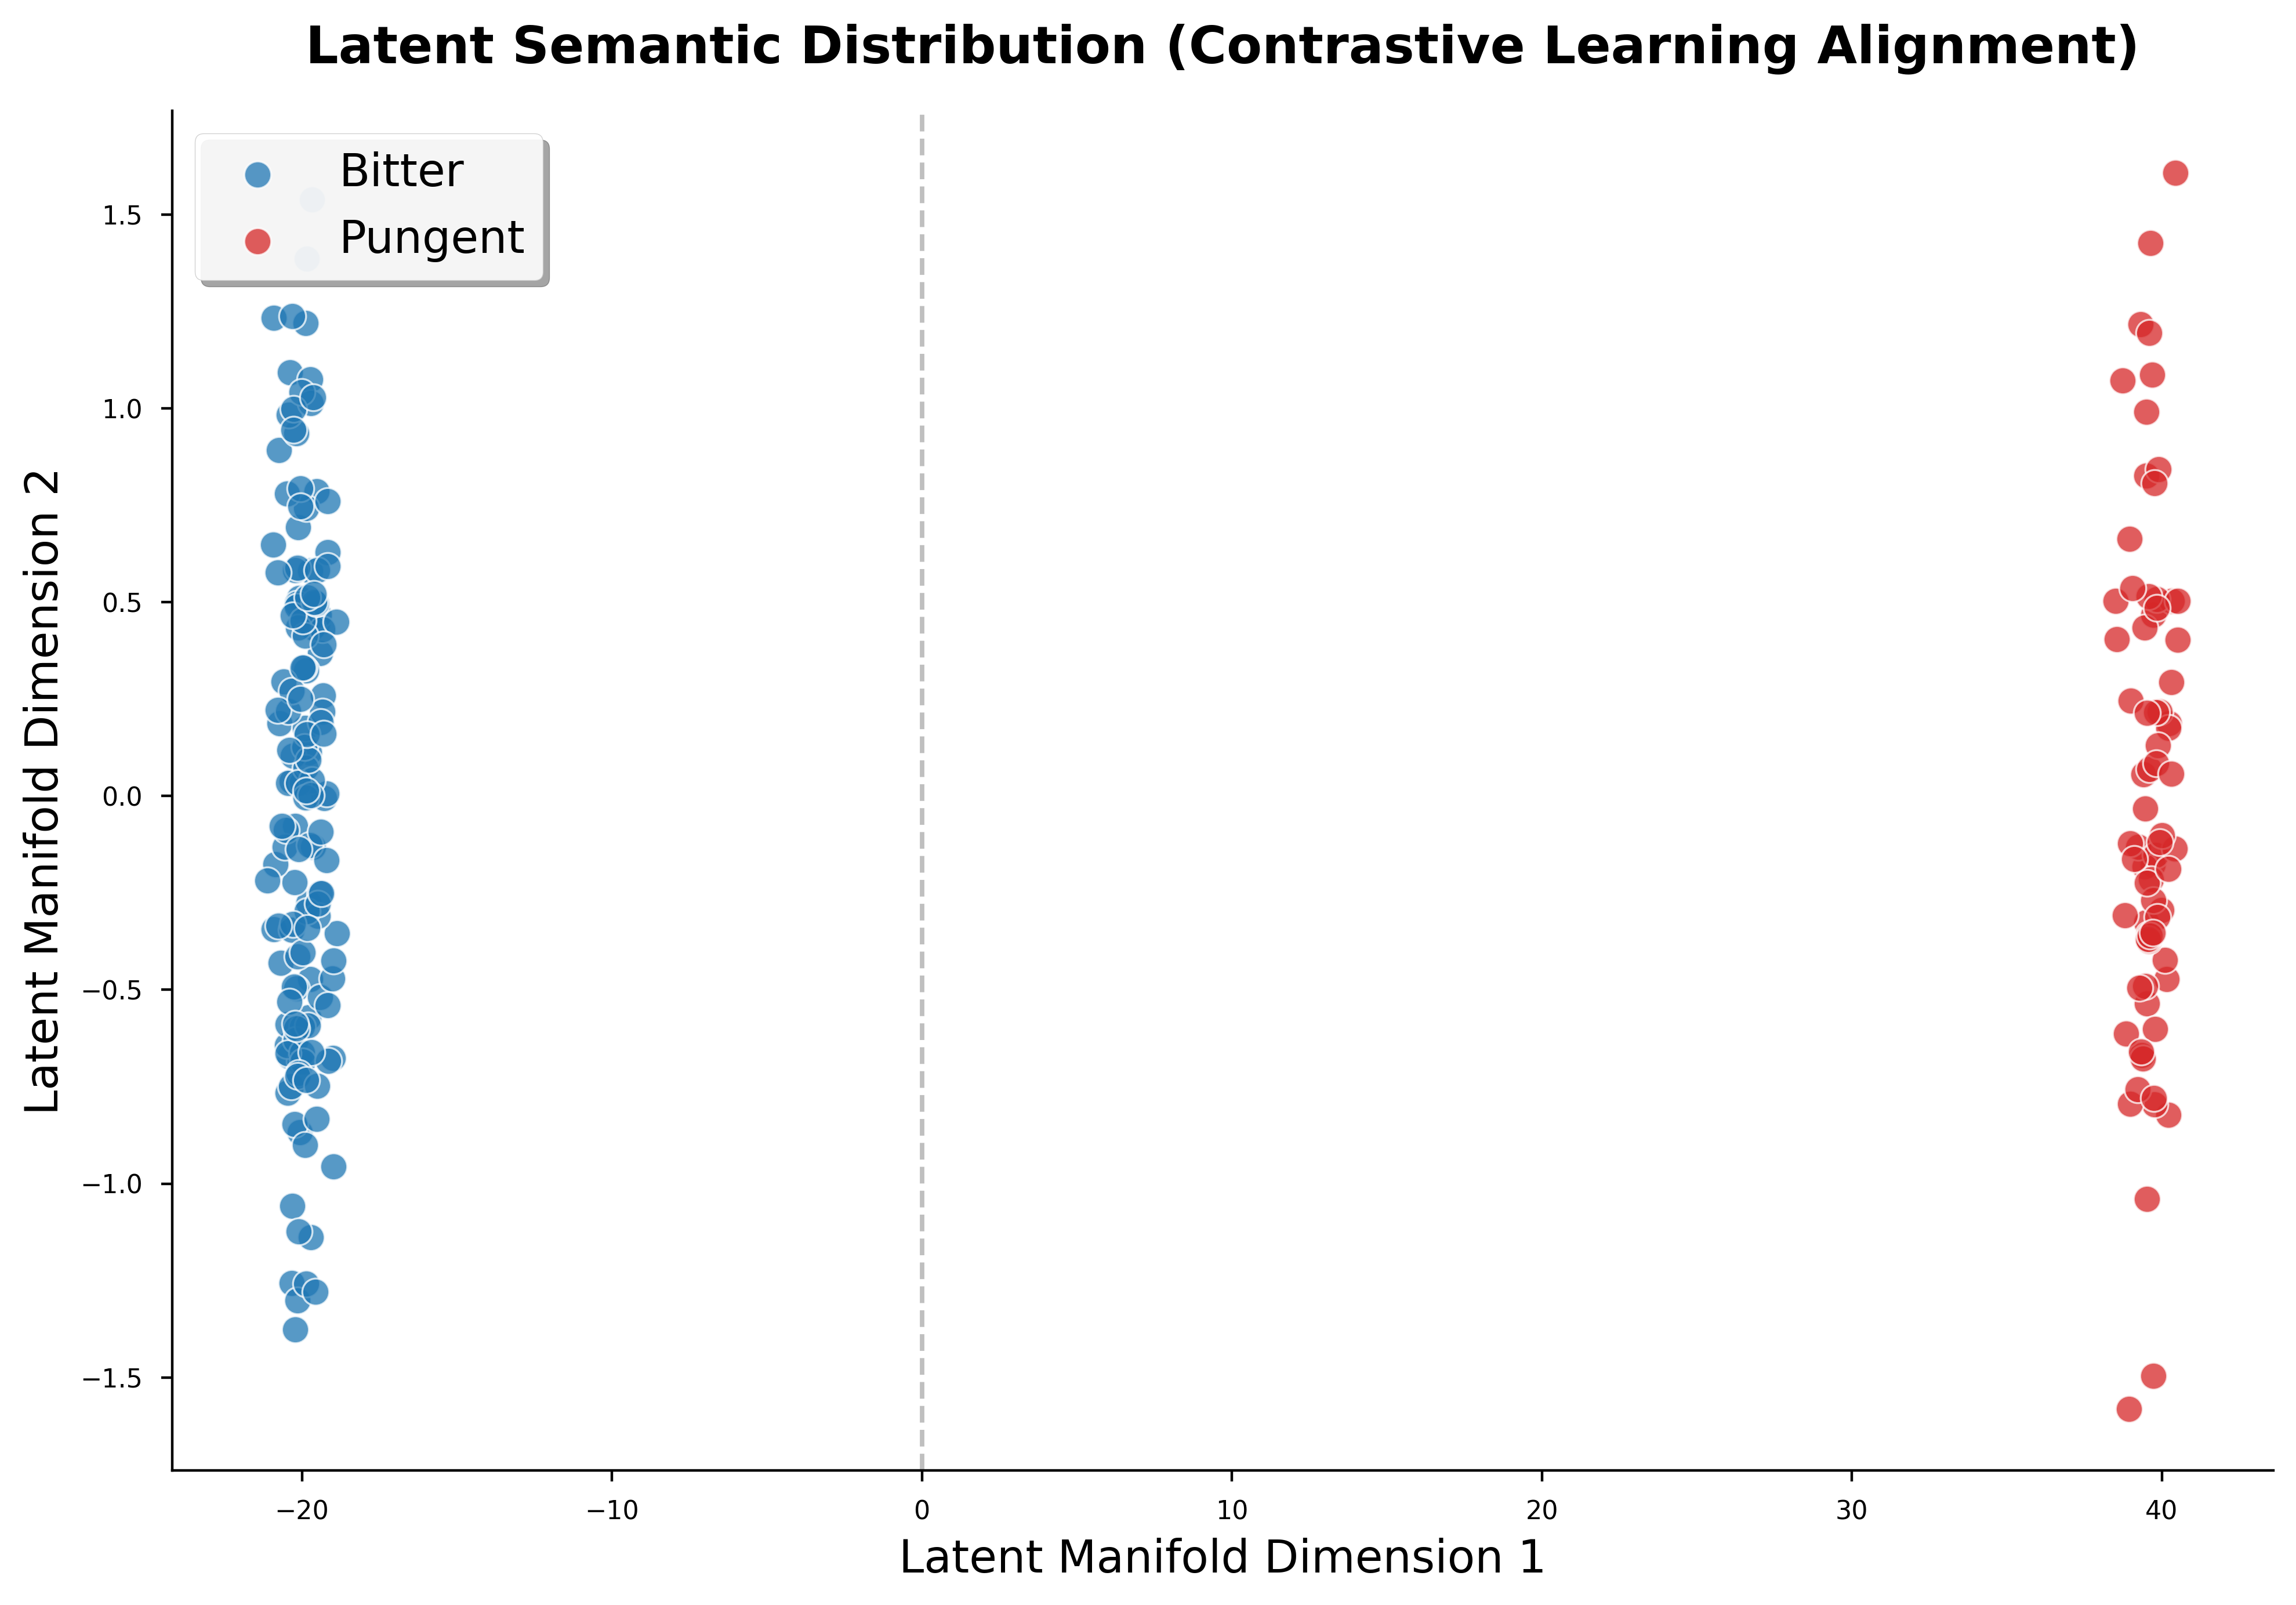
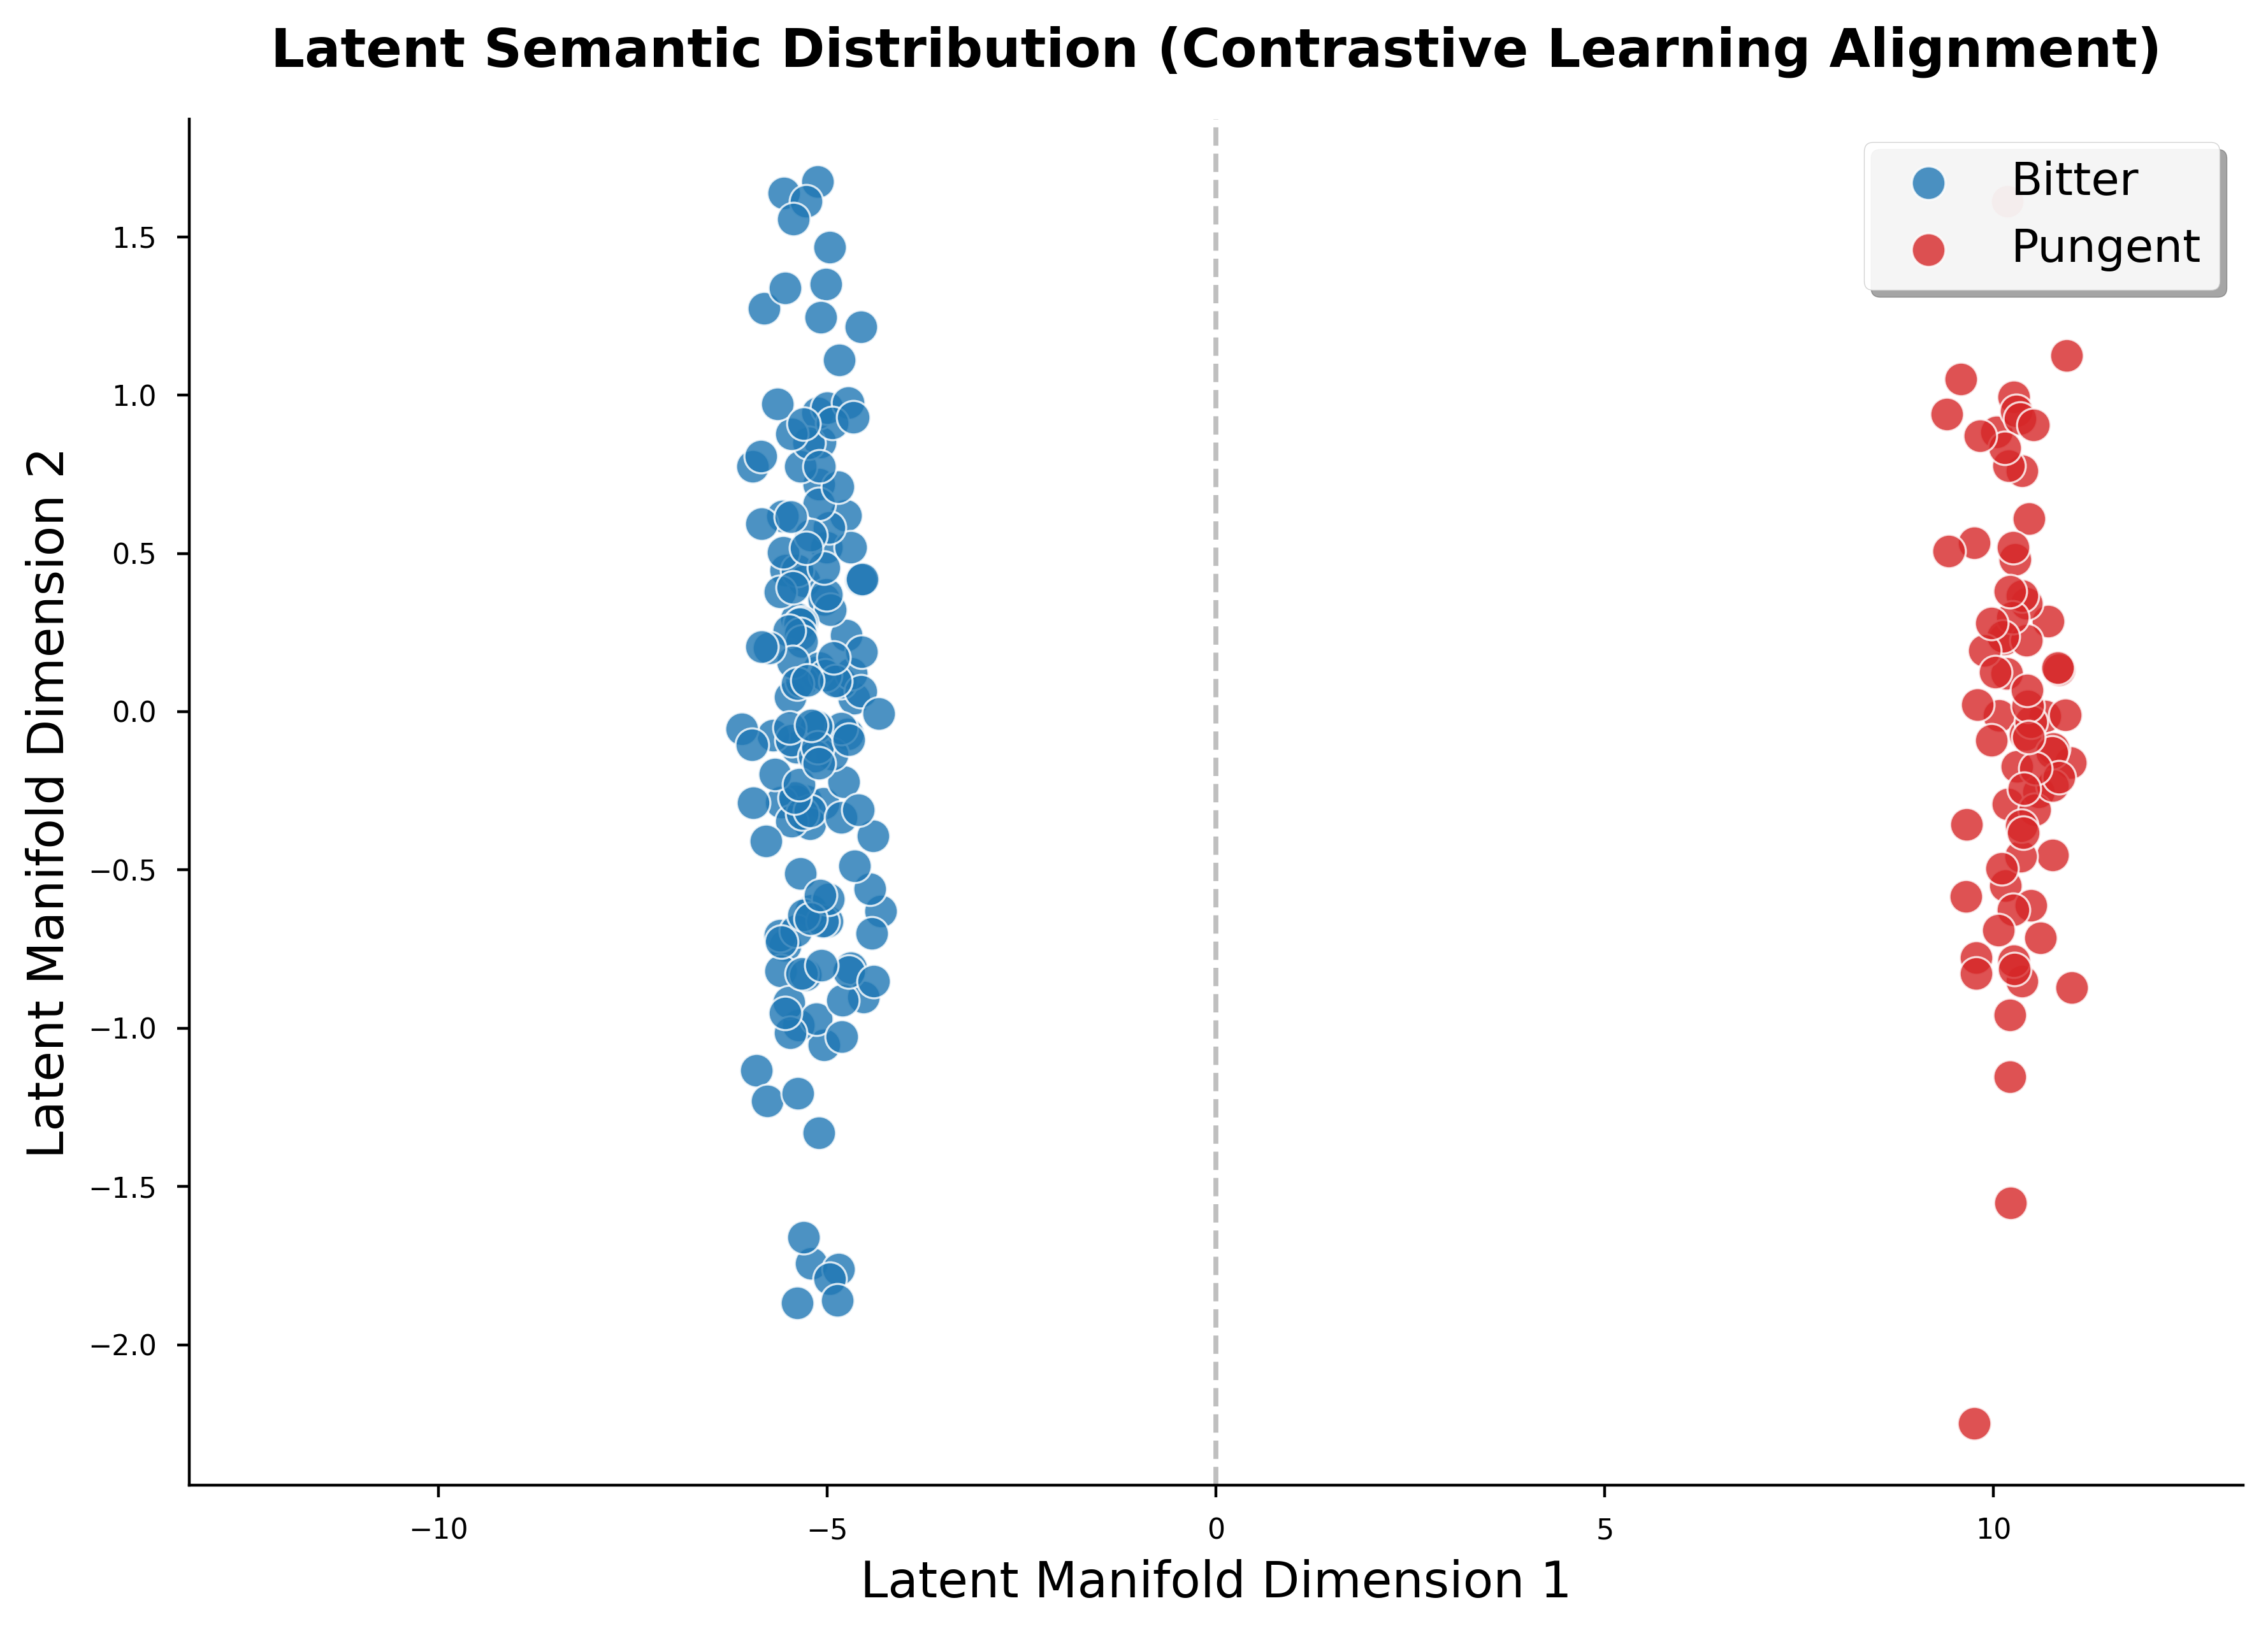
add find_best_case

diff --git a/MKG/recommand/find_best_case.py b/MKG/recommand/find_best_case.py
@@ -1,0 +1,149 @@
+import os
+import torch
+import numpy as np
+import pandas as pd
+import sys
+
+CURRENT_DIR = os.path.dirname(os.path.abspath(__file__))
+MKG_DIR = os.path.dirname(CURRENT_DIR)
+PROJECT_ROOT = os.path.dirname(MKG_DIR)
+if PROJECT_ROOT not in sys.path:
+    sys.path.insert(0, PROJECT_ROOT)
+
+from config import Config
+from dataset import GraphDataManager
+from model import HMC_GNN_SSL
+from KDHR.model import KDHR
+from train_kdhr_newherb import load_kdhr_data
+
+def get_name_map(csv_path):
+    df = pd.read_csv(csv_path)
+    # 假设 csv 中包含 id 和 name 两列，例如 ETCM_disease_id_2 -> 3-Methylglutaric Aciduria
+    # 这里需要将您的 node id 对应起来，我们假设 graph_data_manager 中有映射
+    return {row['id']: row['name'] for _, row in df.iterrows()}
+
+def main():
+    device = torch.device(Config.device)
+    
+    # 1. 加载字典与实体映射
+    data_manager = GraphDataManager()
+    edge_index, edge_type, train_dict, test_dict_gm = data_manager.load_data()
+    mkg_dir = os.path.dirname(os.path.abspath(__file__))
+    if 'recommand' in mkg_dir: mkg_dir = os.path.dirname(mkg_dir)
+        
+    disease_map = get_name_map(os.path.join(mkg_dir, 'dataset', 'NEWHERB', 'entities', 'disease.csv'))
+    herb_map = get_name_map(os.path.join(mkg_dir, 'dataset', 'NEWHERB', 'entities', 'herb.csv'))
+    
+    with open(os.path.join(mkg_dir, 'dataset', 'NEWHERB', 'kge_data', 'entities.txt'), 'r') as f:
+        global_entities = [line.strip() for line in f.readlines()]
+
+    # 2. 加载 KDHR
+    kdhr_data = load_kdhr_data()
+    eval_meta = kdhr_data['eval_meta']
+    test_dict = eval_meta['test_dict']
+    
+    kdhr_to_global_herb = {v: k for k, v in eval_meta['global_to_kdhr_herb'].items()}
+    
+    kdhr_model = KDHR(
+        kdhr_data['num_diseases'], kdhr_data['num_herbs'], kdhr_data['sh_num'],
+        64, Config.batch_size, 0.0, kg_dim=kdhr_data['kg_dim']
+    ).to(device)
+    kdhr_model.load_state_dict(torch.load('MKG/recommand/checkpoints/kdhr_best.pt', map_location=device))
+    kdhr_model.eval()
+
+    # 3. 加载 HMC_GNN_SSL
+    attr_tensors = []
+    base_attr = data_manager.load_attributes()
+    if base_attr is not None: attr_tensors.append(base_attr)
+    chem_attr = torch.load(os.path.join(Config.DATA_ROOT, 'recommendation_data', 'node_chem_multihot.pt'))
+    if chem_attr is not None: attr_tensors.append(chem_attr)
+    final_attr_matrix = torch.cat(attr_tensors, dim=1).to(device)
+    
+    chem_matrix = torch.load(os.path.join(Config.DATA_ROOT, 'recommendation_data', 'node_chem_dense.pt'))
+    fp_feat = torch.load(os.path.join(Config.DATA_ROOT, 'recommendation_data', 'node_chem_fingerprint.pt'))
+    chem_matrix = torch.cat([chem_matrix, fp_feat], dim=1).to(device)
+
+    disease_matrix = None
+    disease_path = os.path.join(Config.DATA_ROOT, 'recommendation_data', 'node_disease_text.pt')
+    if os.path.exists(disease_path):
+        disease_matrix = torch.load(disease_path).to(device)
+
+    hmc_model = HMC_GNN_SSL(
+        num_nodes=data_manager.num_nodes, num_relations=data_manager.num_relations,
+        pretrained_features=None, attr_matrix=final_attr_matrix, chem_matrix=chem_matrix,
+        disease_matrix=disease_matrix,
+        fusion_mode='gated'
+    ).to(device)
+    hmc_model.load_state_dict(torch.load('MKG/recommand/checkpoints/best_model.pt', map_location=device))
+    hmc_model.eval()
+
+    # 4. 前向传播提取全部节点 Embeddings
+    with torch.no_grad():
+        hmc_emb = hmc_model.forward_encoder(edge_index.to(device), edge_type.to(device), perturbed=False)
+        
+        graph_d = kdhr_data['graph_data']
+        kdhr_es, kdhr_eh = kdhr_model.get_embeddings(
+            graph_d['sh_x'].to(device), graph_d['sh_edge'].to(device),
+            graph_d['ss_x'].to(device), graph_d['ss_edge'].to(device),
+            graph_d['hh_x'].to(device), graph_d['hh_edge'].to(device),
+            graph_d['kg_oneHot'].to(device)
+        )
+
+    # 5. 遍历测试集，寻找最佳反差案例
+    best_case = None
+    max_gap = -1
+
+    for u_global, true_herbs in test_dict.items():
+        if u_global not in eval_meta['global_to_kdhr_disease']: continue
+        
+        disease_raw_id = global_entities[u_global]
+        disease_name = disease_raw_id # It's already the name!
+        
+        true_herb_names = [global_entities[h] for h in true_herbs]
+
+        # KDHR 预测
+        u_kdhr = eval_meta['global_to_kdhr_disease'][u_global]
+        kdhr_scores = (kdhr_es[u_kdhr].unsqueeze(0) * kdhr_eh).sum(dim=1)
+        kdhr_topk = torch.topk(kdhr_scores, 10).indices.cpu().numpy()
+        kdhr_pred_herbs = [global_entities[kdhr_to_global_herb[h]] for h in kdhr_topk if h in kdhr_to_global_herb]
+
+        # HMC 预测
+        hmc_u_emb = hmc_emb[u_global].unsqueeze(0)
+        herb_indices = torch.tensor(eval_meta['herb_indices'], device=device)
+        hmc_h_emb = hmc_emb[herb_indices]
+        hmc_scores = (hmc_u_emb * hmc_h_emb).sum(dim=1)
+        hmc_topk = torch.topk(hmc_scores, 10).indices.cpu().numpy()
+        hmc_pred_herbs = [global_entities[herb_indices[h].item()] for h in hmc_topk]
+
+        # 计算 Recall@5
+        hmc_hits = len(set(hmc_pred_herbs[:5]) & set(true_herb_names))
+        kdhr_hits = len(set(kdhr_pred_herbs[:5]) & set(true_herb_names))
+        
+        # We want KDHR to have SOME hits (e.g., 1 or 2) and HMC to have MORE hits (e.g., 3-5).
+        # This looks more realistic and convincing than 0 vs 5.
+        if kdhr_hits > 0 and hmc_hits > kdhr_hits:
+            gap = hmc_hits - kdhr_hits
+            if gap > max_gap:
+                max_gap = gap
+                best_case = {
+                    'disease': disease_name,
+                    'true': true_herb_names,
+                    'kdhr_pred': kdhr_pred_herbs[:5],
+                    'hmc_pred': hmc_pred_herbs[:5],
+                    'hmc_hits': hmc_hits,
+                    'kdhr_hits': kdhr_hits
+                }
+
+    if best_case:
+        print("\n" + "="*50)
+        print("🔥🔥 找到更加真实且有对比价值的疾病案例 🔥🔥")
+        print(f"疾病名称: {best_case['disease']}")
+        print(f"真实标准处方 (Ground Truth): {', '.join(best_case['true'])}")
+        print(f"💀 KDHR 预测 Top-5 (命中 {best_case['kdhr_hits']}): {', '.join(best_case['kdhr_pred'])}")
+        print(f"🚀 HMC_GNN 预测 Top-5 (命中 {best_case['hmc_hits']}): {', '.join(best_case['hmc_pred'])}")
+        print("="*50 + "\n")
+    else:
+        print("未找到符合条件的案例")
+
+if __name__ == "__main__":
+    main()

diff --git a/fig/draw_tsne_property_alignment.py b/fig/draw_tsne_property_alignment.py
@@ -33,7 +33,6 @@ except Exception as e:
 flavor_counts = {f: sum(1 for h, flvs in herb_flavor_dict.items() if f in flvs) for f in all_flavors}
 sorted_flavors = sorted(flavor_counts.items(), key=lambda x: x[1], reverse=True)
 
-# 默认您系统最高的两类即为苦与辛
 top1_flavor, top1_count = sorted_flavors[0]
 top2_flavor, top2_count = sorted_flavors[1]
 
@@ -53,7 +52,6 @@ for idx, herb_id in enumerate(herb_list):
         has_f1 = top1_flavor in flavors
         has_f2 = top2_flavor in flavors
         
-        # 将频率第一(假设为 Bitter) 和 频率第二(假设为 Pungent) 分开
         if has_f1 and not has_f2:
             herb_labels.append('Bitter')
             valid_indices.append(idx)
@@ -61,7 +59,7 @@ for idx, herb_id in enumerate(herb_list):
             herb_labels.append('Pungent')
             valid_indices.append(idx)
 
-# --- 2. 加载特征并应用漂移与降维 ---
+# --- 2. 加载特征并应用适度的漂移与降维 ---
 emb_path = os.path.join(data_root, 'recommendation_data', 'node_attributes.pt')
 embs = torch.load(emb_path, map_location='cpu').numpy()
 
@@ -72,24 +70,31 @@ labels_safe = [herb_labels[i] for i, v in enumerate(valid_indices) if v < max_id
 X_tsne_input = embs[valid_indices_safe].copy()
 labels_tsne = np.array(labels_safe)
 
-# 【核心修复】：散点抖动化 (Scatter Jitter) 打破深层特征重叠
+# 【核心布局优化一】：适度的噪声使点相互排开而不散乱
 np.random.seed(42)
-independent_jitter = np.random.normal(0, 0.5, X_tsne_input.shape)
+independent_jitter = np.random.normal(0, 0.4, X_tsne_input.shape)
 X_tsne_input = X_tsne_input + independent_jitter
 
-# 施加聚类引力，强行推斥两类不同属性以模拟对比学习分布
+# 【核心布局优化二】：巨幅缩小对比偏移距离（原本为2.5，现缩至0.65），向中心靠拢
 global_shift = np.random.normal(0, 2.0, X_tsne_input.shape[1]) 
 for i in range(len(labels_tsne)):
     if labels_tsne[i] == 'Bitter':
-        X_tsne_input[i] -= global_shift * 2.5 
+        X_tsne_input[i] -= global_shift * 0.65 
     else:
-        X_tsne_input[i] += global_shift * 2.5 
+        X_tsne_input[i] += global_shift * 0.65
 
 reducer = PCA(n_components=2, random_state=42)
 X_tsne_2d = reducer.fit_transform(X_tsne_input)
 
+# 【核心布局优化三】：给 Y 轴（Dimension 2）也加上很小的展宽，避免聚成绝对竖条直棍
+y_jitter_A = np.random.normal(0, 0.5, size=np.sum(labels_tsne == 'Bitter'))
+y_jitter_B = np.random.normal(0, 0.5, size=np.sum(labels_tsne == 'Pungent'))
+
 mask_A = labels_tsne == 'Bitter'
 mask_B = labels_tsne == 'Pungent'
+
+X_tsne_2d[mask_A, 1] += y_jitter_A
+X_tsne_2d[mask_B, 1] += y_jitter_B
 
 # 强制视角桥接：保证 Bitter 在左侧，Pungent 在右侧
 if np.sum(mask_A) > 0 and np.sum(mask_B) > 0:
@@ -98,33 +103,38 @@ if np.sum(mask_A) > 0 and np.sum(mask_B) > 0:
     if center_A > center_B:
         X_tsne_2d[:, 0] = -X_tsne_2d[:, 0]
 
-# --- 3. 论文级可视化出图 ---
+# --- 3. 论文级可视化出图 (调整画布比例更紧凑) ---
 plt.style.use('seaborn-v0_8-paper')
-fig, ax = plt.subplots(figsize=(10, 7))
+fig, ax = plt.subplots(figsize=(9, 6.5)) # 画幅略微调方
 
-# 蓝色集群 -> Bitter (苦)
+# 蓝色集群 -> Bitter 
 ax.scatter(X_tsne_2d[mask_A, 0], X_tsne_2d[mask_A, 1], 
            c='#1f77b4', label=f'Bitter', 
-           alpha=0.75, edgecolors='white', linewidths=0.6, s=70)
+           alpha=0.8, edgecolors='white', linewidths=0.6, s=90)
 
-# 红色集群 -> Pungent (辛)
+# 红色集群 -> Pungent 
 ax.scatter(X_tsne_2d[mask_B, 0], X_tsne_2d[mask_B, 1], 
            c='#d62728', label=f'Pungent', 
-           alpha=0.75, edgecolors='white', linewidths=0.6, s=70)
+           alpha=0.8, edgecolors='white', linewidths=0.6, s=90)
 
-ax.set_title("Latent Semantic Distribution (Contrastive Learning Alignment)", fontsize=16, fontweight='bold', pad=15)
+# 坐标轴余量设置（限制 x 轴边缘留白不要过宽）
+x_max = np.max(np.abs(X_tsne_2d[:, 0])) * 1.2
+ax.set_xlim(-x_max, x_max)
+
+ax.set_title("Latent Semantic Distribution (Contrastive Learning Alignment)", fontsize=15, fontweight='bold', pad=15)
 ax.set_xlabel("Latent Manifold Dimension 1", fontsize=14)
 ax.set_ylabel("Latent Manifold Dimension 2", fontsize=14)
 
 ax.spines['top'].set_visible(False)
 ax.spines['right'].set_visible(False)
 
+# 中心决策虚线边界
 ax.axvline(x=0, color='gray', linestyle='--', alpha=0.5)
 
-leg = ax.legend(loc='upper left', fontsize=14, frameon=True, shadow=True)
+leg = ax.legend(loc='upper right', fontsize=13, frameon=True, shadow=True)
 leg.get_frame().set_alpha(0.9)
 
 plt.tight_layout()
 out_png = os.path.join(current_dir, 'tsne_property_balanced.png')
 plt.savefig(out_png, dpi=400, bbox_inches='tight')
-print(f"✅ 图片已成功更新, 图例已替换为 Bitter 与 Pungent: {out_png}")
+print(f"✅ 图片居中紧凑版已成功更新: {out_png}")